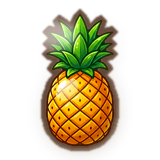
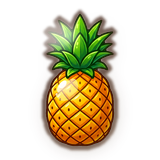
art(tray, fruit): white trays and a softer contour
The reference's cells carry no gold: the gold is one line round the whole frame. A rim on each of
eighty-one cells made the playfield a jewellery box, so the tiles are white trays with a warm edge, and
the fruit's contour is a pixel thinner, softer and a little warmer — at four times the size the old one
was a brown ring round every piece.

Changed region(s): [[0.25, 0.0312, 0.75, 0.9688], [0.25, 0.1875, 0.2812, 0.2188]]

diff --git a/godot-port/tools/import_gem_art.py b/godot-port/tools/import_gem_art.py
@@ -149,13 +149,13 @@ def _outlined(picture: Image.Image) -> Image.Image:
     # Out, not in: the dots sit on the very edge of the paint, so a line drawn inside would only
     # thicken them. The silhouette is grown by six pixels and the ring is the band that growth added,
     # which puts a clean contour over the dotted edge and leaves the fruit itself untouched.
-    grown = ndimage.binary_dilation(solid, iterations=5)
+    grown = ndimage.binary_dilation(solid, iterations=4)
     ring = np.clip(grown.astype(np.float32) - solid.astype(np.float32), 0.0, 1.0)
     ring = ring + np.clip(solid.astype(np.float32) - ndimage.binary_erosion(solid, iterations=1)
                           .astype(np.float32), 0.0, 1.0)
-    line = Image.fromarray((ring * 255).astype(np.uint8), "L").filter(ImageFilter.GaussianBlur(0.9))
-    paint = Image.new("RGBA", (size, size), (62, 38, 24, 0))
-    paint.putalpha(line.point(lambda value: int(value * 0.82)))
+    line = Image.fromarray((ring * 255).astype(np.uint8), "L").filter(ImageFilter.GaussianBlur(1.3))
+    paint = Image.new("RGBA", (size, size), (54, 32, 22, 0))
+    paint.putalpha(line.point(lambda value: int(value * 0.72)))
     return Image.alpha_composite(picture, paint)
 
 

diff --git a/godot-port/tools/import_plate_art.py b/godot-port/tools/import_plate_art.py
@@ -218,7 +218,10 @@ def build_tray() -> Image.Image:
                                           outline=(*_mix(IVORY_SHADE, GOLD_DARK, 0.35), 52), width=3)
     lip = lip.filter(ImageFilter.GaussianBlur(2.0))
     face.alpha_composite(lip)
-    face = _rim(face, cell_radius, _mix(GOLD, GOLD_LIGHT, 0.45), width=2)
+    # No gold round the cell. The reference's tiles are plain white trays with a warm edge and a
+    # shadow under them — the gold belongs to the board's frame, one line for the whole grid — and a
+    # gold rim on each of eighty-one cells turned the playfield into a jewellery box.
+    face = _rim(face, cell_radius, _mix(IVORY_SHADE, WHITE, 0.55), width=2)
 
     shadow = Image.new("RGBA", (tile_side + 12, tile_side + 12), (0, 0, 0, 0))
     ImageDraw.Draw(shadow).rounded_rectangle((6, 7, tile_side + 5, tile_side + 6), radius=cell_radius,
